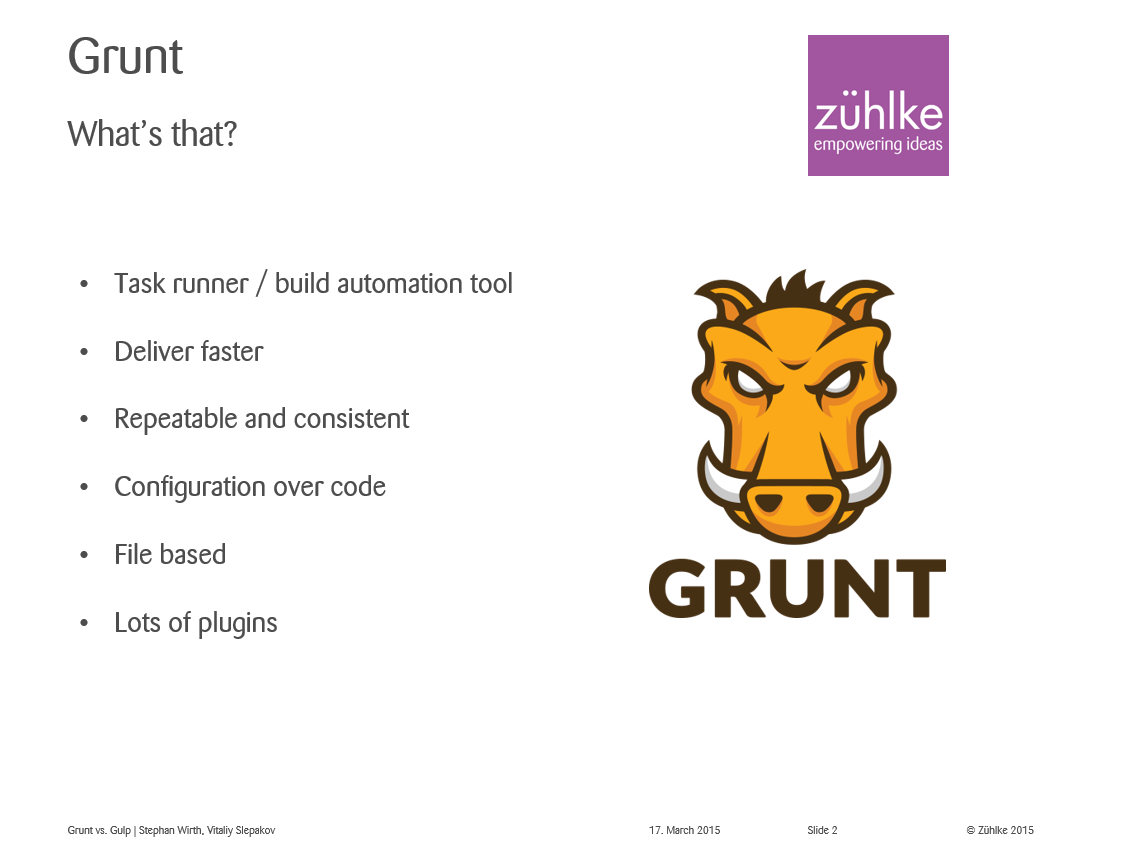
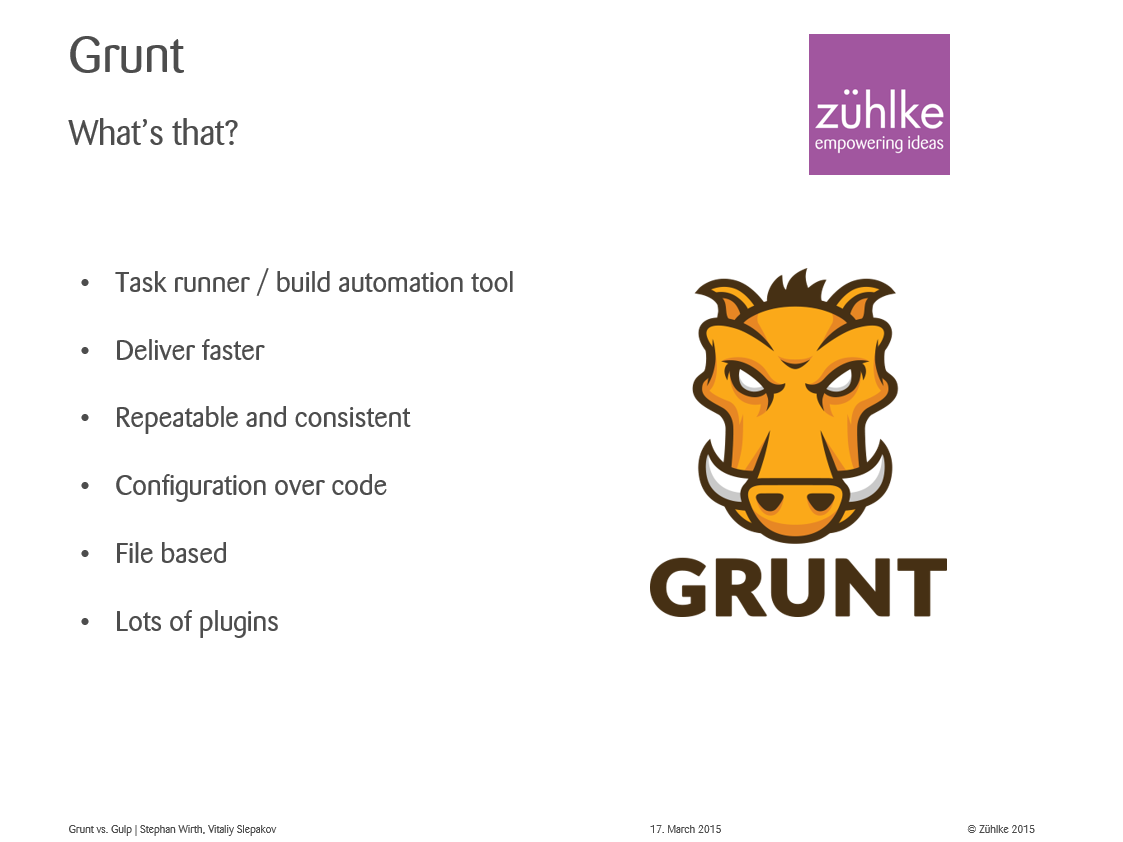
added grunt slides to corousel

diff --git a/src/app/grunt/grunt.html b/src/app/grunt/grunt.html
@@ -1,8 +1,10 @@
-<section id="dashboard-view" class="mainbar" data-ng-controller="grunt as vm">
-     <div >
-        <carousel style="background-color: lightgray;">
+<section id="grunt-view" class="mainbar" data-ng-controller="grunt as vm">
+     <div>
+       <carousel disable-animation="true">
             <slide ng-repeat="slide in vm.slides" active="slide.active">
-                <div marked ng-include src="slide.markdown" style="margin:auto;">
+                <img ng-src="{{slide.image}}" style="margin:auto;">
+                <div class="carousel-caption">
+                    <h4>Slide {{$index + 1}}</h4>
                 </div>
             </slide>
         </carousel>

diff --git a/src/app/grunt/grunt.js b/src/app/grunt/grunt.js
@@ -9,14 +9,10 @@
         vm.slides =
         [
             {
-                text: 'Eins',
-                image: 'http://placekitten.com/' + 601 + '/300',
-                markdown: 'src/app/gulp/slides/slide1.md'
+                image: '/img/grunt1.PNG'
             },
             {
-                text: 'Zwei',
-                image: 'http://placekitten.com/' + 602 + '/300',
-                markdown: 'src/app/gulp/slides/slide2.md'
+                image: '/img/grunt2.PNG'
             },
         ];
     }
